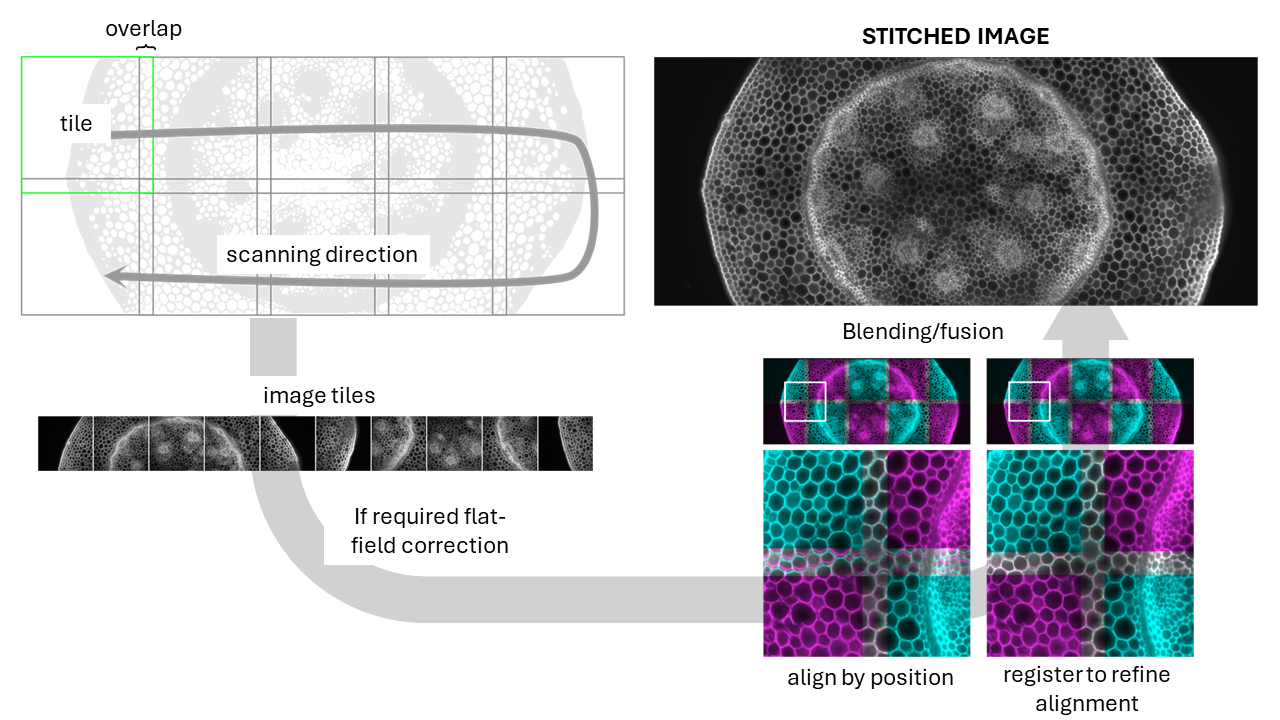
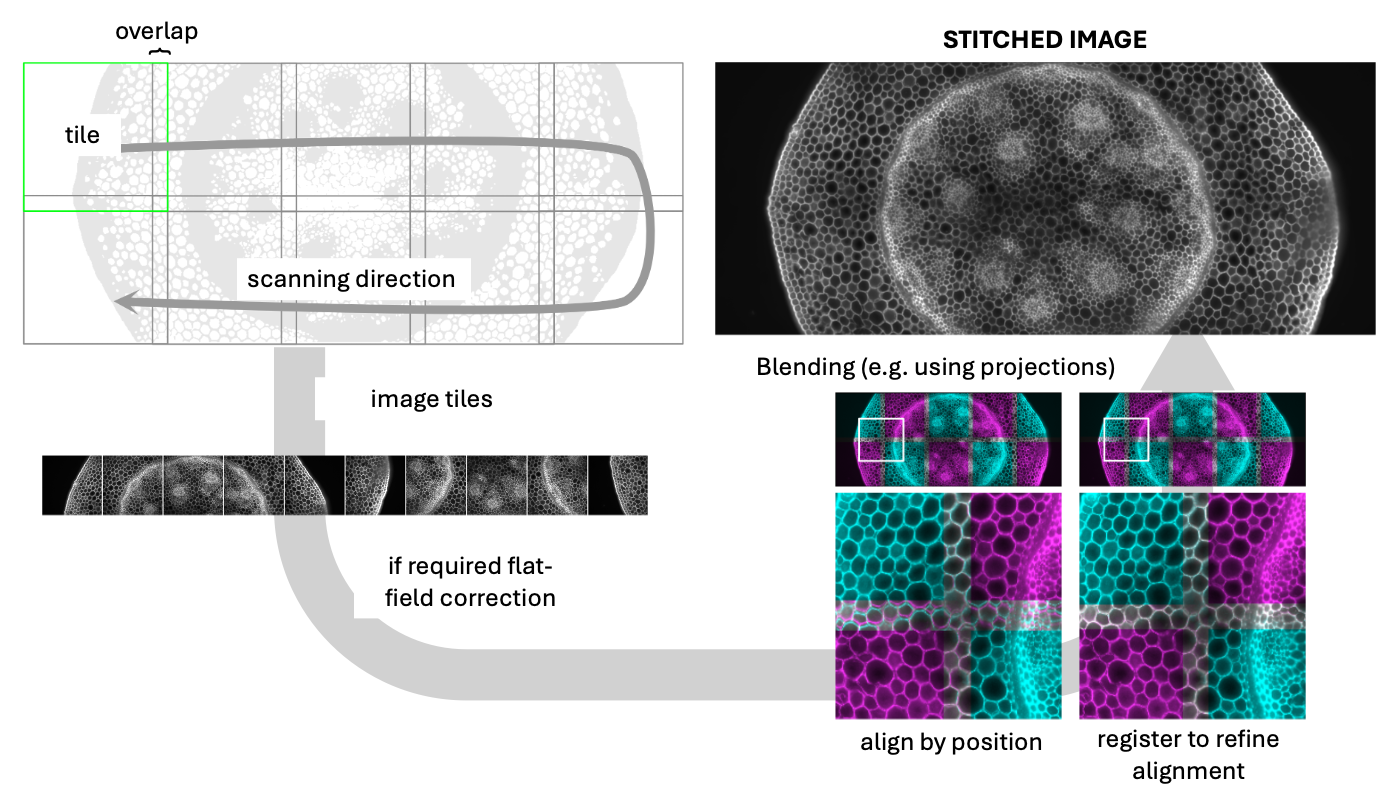
Finalized stitching module

diff --git a/_modules/stitching.md b/_modules/stitching.md
@@ -1,10 +1,11 @@
 ---
 title: Stitching of tiled images
 layout: module
-tags: ["draft"]
+tags: ["microscopy, image formation"]
 prerequisites:
   - "[Digital image basics](../pixels)"
   - "[Projections](../projections)"
+  - "[Image registration](../image_registration)"
 objectives:
   - Learn how to stitch tiled images into a single large image
   - Learn which parameters affect the quality of the results
@@ -16,8 +17,18 @@ motivation: |
 concept_map: >
   graph LR
     %% Define Inputs
+    subgraph Imaging [Imaging]
+      direction LR
+        LargeObject(Large object)
+        Tile1(Tile 1)
+        Tile_dot(...)
+        TileN(Tile N)
+    end
+
     subgraph Input_Data [Input Data]
       direction TB
+        B( ) 
+        style B fill:none,stroke:none,width:0px,height:0px
         RawImages(Image Tiles)
         StageCoords(Grid Positions)
         Overlap(Overlap)
@@ -26,19 +37,35 @@ concept_map: >
     %% Define the Core Process
     subgraph Stitching_Core [Stitching Algorithm]
         direction TB
-        Align(Step 1: Alignment and registration)
-        Blend(Step 2: Blending/Merging)
+        C( ) 
+        style C fill:none,stroke:none,width:0px,height:0px
+        Align(Step 1: Alignment)
+        Register(Step 2: Registration)
+        Blend(Step 3: Blending/Merging)
     end
 
     %% Define the Final Output
     LargeImage(Final Large Stitched Image)
 
     %% Define Connections/Flow
-    RawImages --> Align
-    StageCoords --> Align
-    Overlap --> Align
+    LargeObject-->Tile1
+    LargeObject-->Tile_dot
+    LargeObject-->TileN
+    
+    Tile1 --- B
+    Tile_dot --- B
+    TileN --- B
 
-    Align --> Blend
+    B --- RawImages
+    
+    RawImages --- C
+    StageCoords --- C
+    Overlap --- C
+
+    C --> Align
+
+    Align --> Register
+    Register-->Blend
     Blend --> LargeImage
 
     %% Styling for clarity (Optional but helpful)
@@ -46,12 +73,12 @@ concept_map: >
     classDef input fill:#ccf,stroke:#333,stroke-width:1px;
     classDef output fill:#cfc,stroke:#333,stroke-width:2px,stroke-dasharray: 5 5;
 
-    class Align,Blend process;
+    class Align,Blend,Register process;
     class RawImages,StageCoords,Overlap input;
     class LargeImage output;
 
 figure: /figures/stitching.png
-figure_legend: TODO
+figure_legend: The stitching workflow
 
 multiactivities:
   - ["stitching/act01.md", [["ImageJ GUI", "stitching/act01_imagejgui.md"], ["ImageJ Macro", "stitching/act01_imagejmacro.ijm"]]]
@@ -81,7 +108,8 @@ assessment: >
     >   3  Uneven illumination causes "shading" at the tile borders. To avoid this, flat-field correction must be applied to each tile before the stitching process to ensure intensity homogeneity.
     {: .solution}
   
-
+learn_next:
+  - "[Flat field correction](../flatfield_correction)"
 
 external_links:
   - "[BigStitcher: OpenSource to sticht very large data sets](https://imagej.net/plugins/bigstitcher/index)"

diff --git a/_courses/image_formation_and_artefacts.md b/_courses/image_formation_and_artefacts.md
@@ -1,6 +1,6 @@
 ---
 title: Image formation and imaging artefacts (DRAFT)
-module_order: ["pixels", "filter_neighbourhood", "projections", "psf", "sampling",  "illumination_artefact", "flatfield_correction", "stitching"]
+module_order: ["pixels", "filter_neighbourhood", "projections", "image_formation_fluo_mic", "psf", "sampling",  "illumination_artefact", "flatfield_correction", "stitching"]
 ---
 
 {% include base_path.html %}

diff --git a/_modules/flatfield_correction.md b/_modules/flatfield_correction.md
@@ -1,7 +1,7 @@
 ---
 title: Flat-field correction
 layout: module
-tags: ["microscopy"]
+tags: ["image formation, microscopy"]
 prerequisites:
   - "[Illumination and shading artefacts](../illumination_artefact)"
   - "[Convolutional filters](../filter_convolution)"